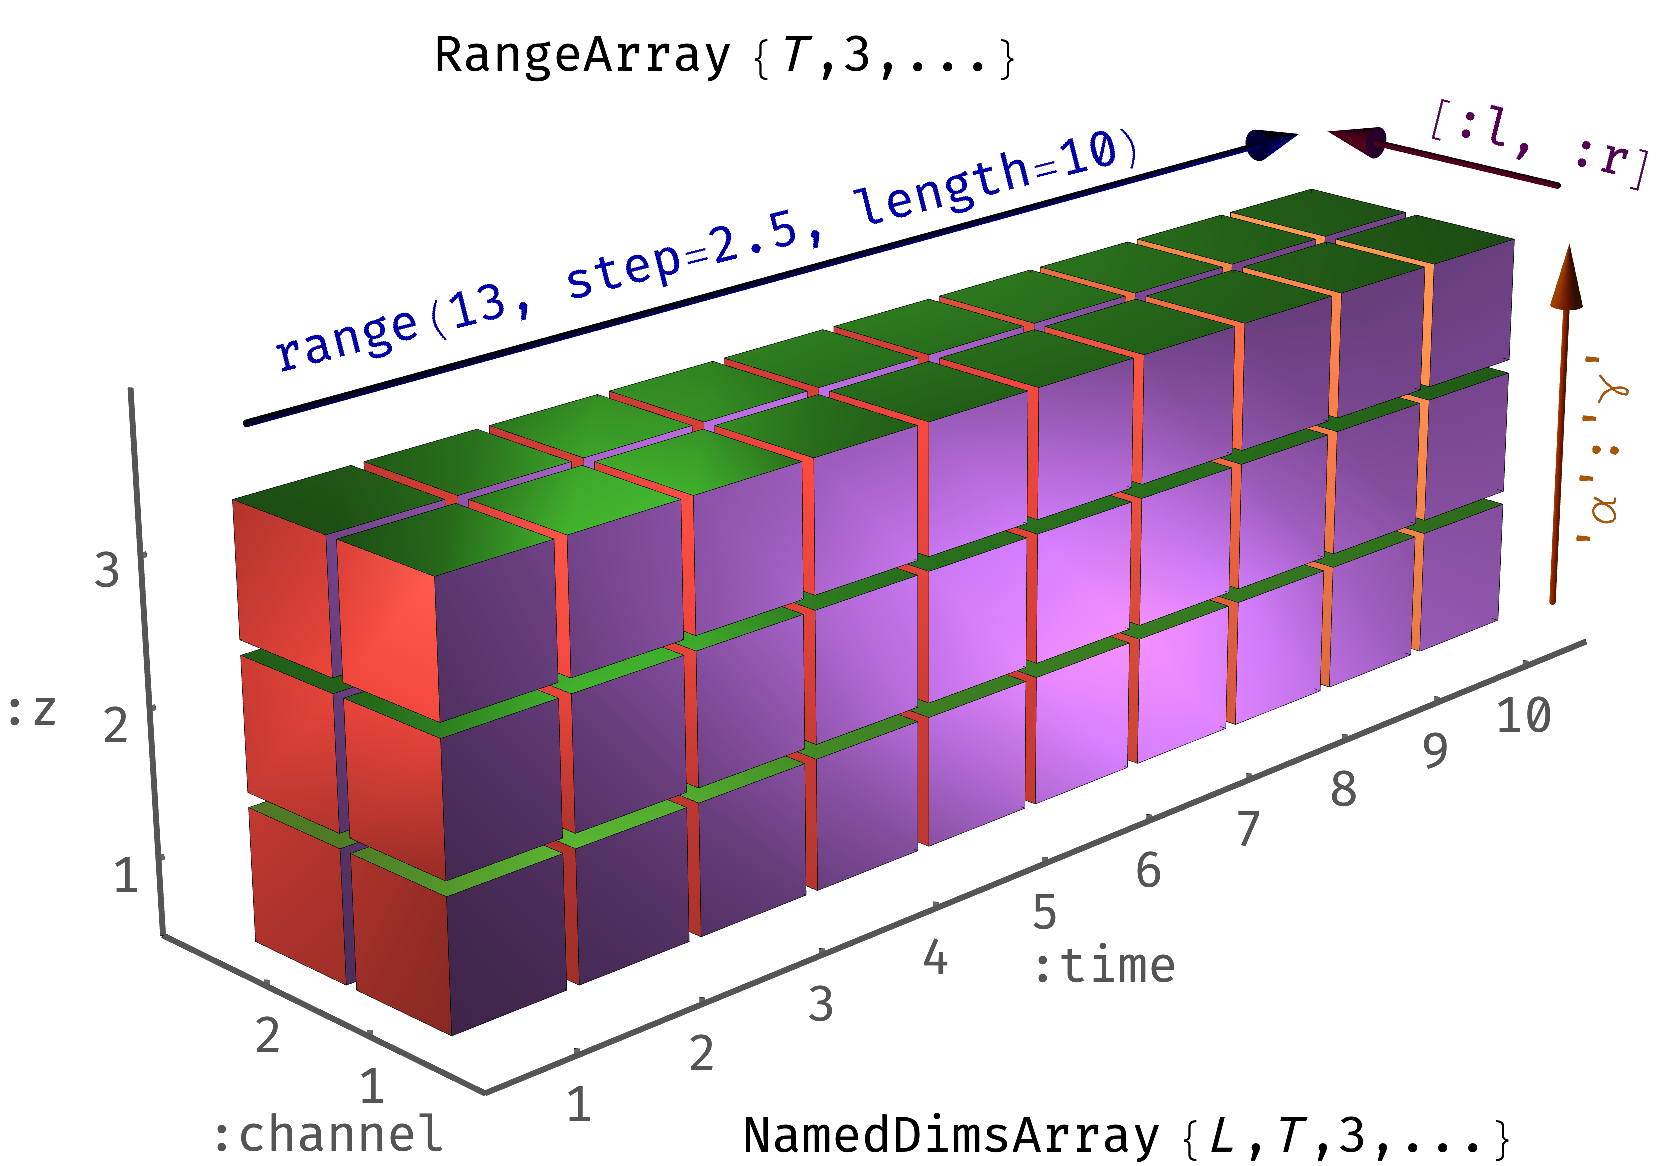
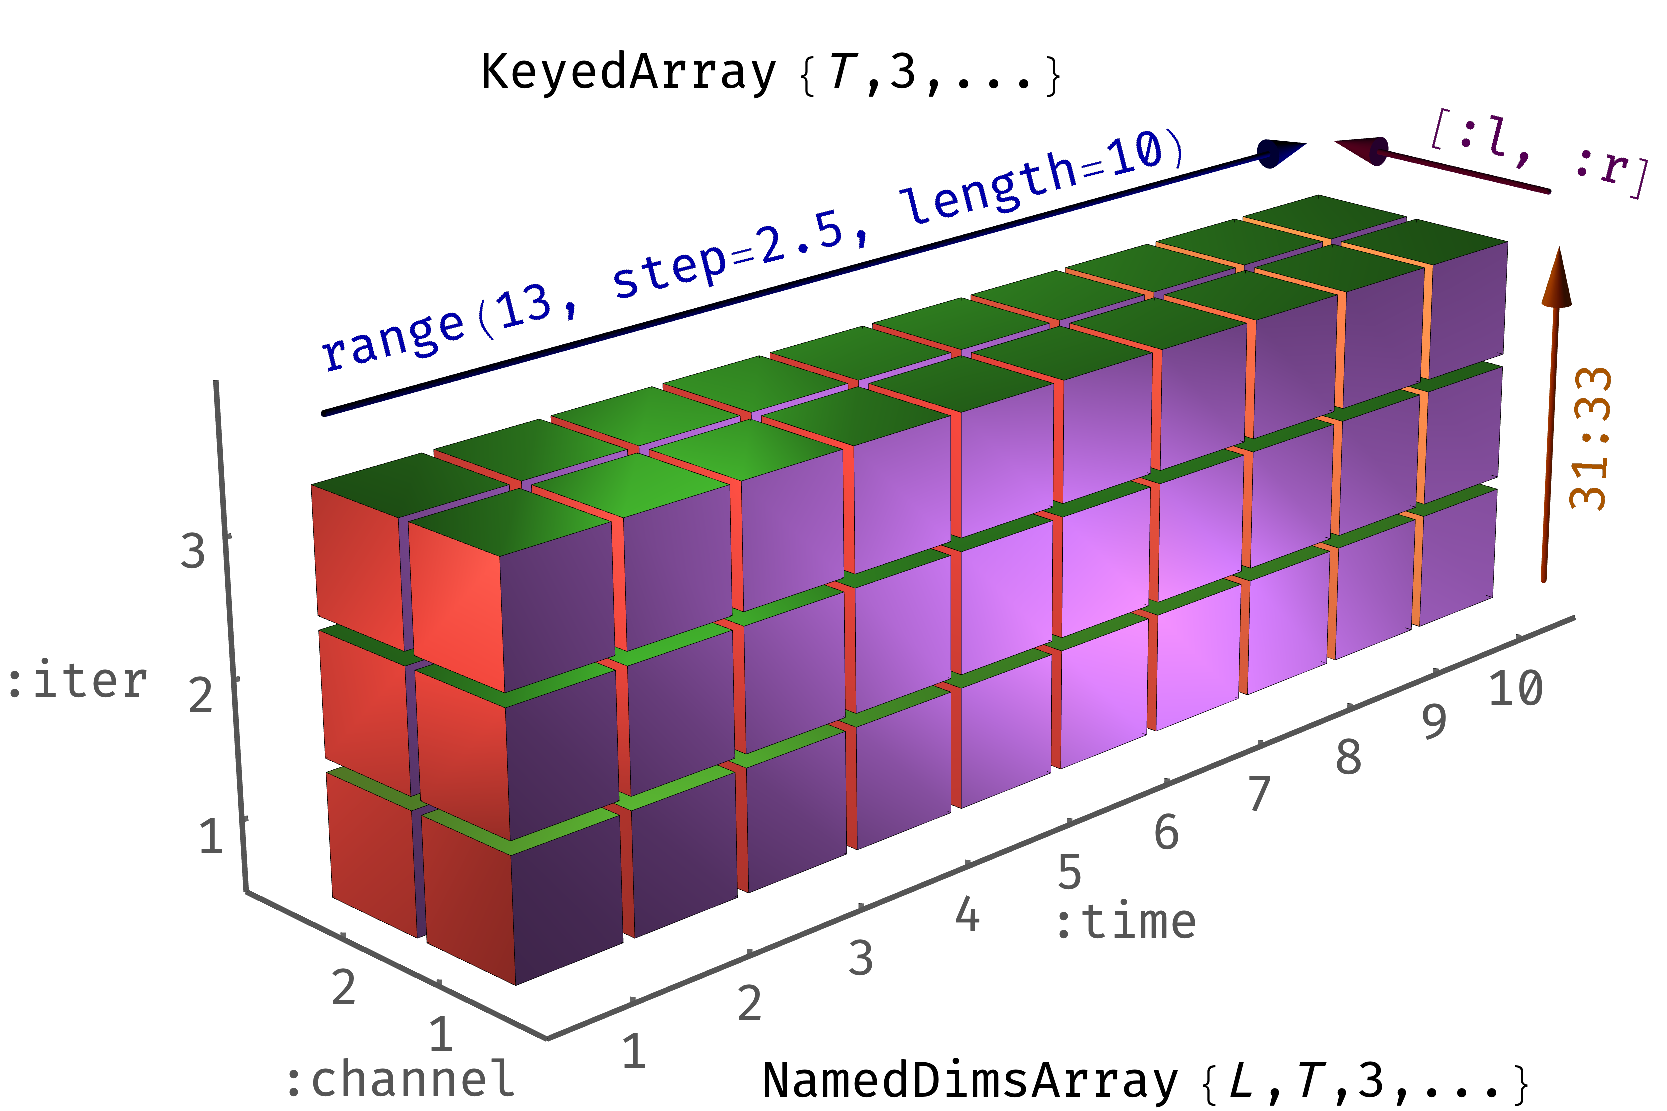
update figures

Changed region(s): [[0.0, 0.0918, 0.9982, 1.0], [0.4367, 0.9487, 0.9046, 1.0], [0.2496, 0.0306, 0.5615, 0.0918]]

diff --git a/README.md b/README.md
@@ -1,3 +1,5 @@
+<img src="docs/readmefigure.png" alt="block picture" width="450" align="right">
+
 # AxisKeys.jl
 
 [![Build Status](https://travis-ci.org/mcabbott/AxisKeys.jl.svg?branch=master)](https://travis-ci.org/mcabbott/AxisKeys.jl)
@@ -20,9 +22,9 @@ data = rand(Int8, 2,10,3) .|> abs;
 A = wrapdims(data; channel=[:left, :right], time=range(13, step=2.5, length=10), iter=31:33)
 ```
 
-<center>
-<img src="docs/readmeterminal.png" alt="??" width="600" align="center"></img>
-</center>
+<p align="center">
+<img src="docs/readmeterminal.png" alt="terminal pretty printing" width="550" align="center">
+</p>
 
 ### Selections
 
